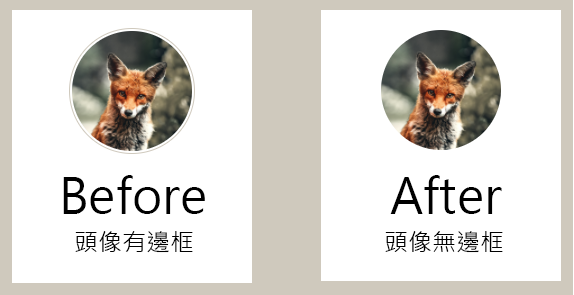
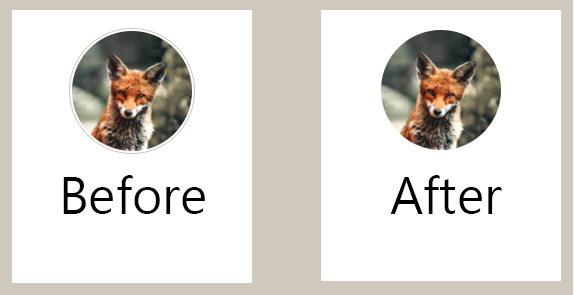
update post contents

Changed region(s): [[0.6516, 0.7627, 0.8885, 0.8542], [0.1185, 0.7627, 0.3258, 0.8542]]

diff --git a/source/_posts/next-theme-edit-note.md b/source/_posts/next-theme-edit-note.md
@@ -1,37 +1,92 @@
 ---
-title: 但是我不想拒絕修改CSS
+title: Hexo theme "NexT" CSS modification
 date: 2021-02-12 15:23:22
 categories:
 - [hexo]
-- [next (hexo theme)]
+- [NexT (hexo theme)]
 tags:
+- CSS
 ---
 
-因`_config.next.yml`無法滿足更新部落格文章字體大小的需求，故修改了`themes\next\source\css`內的檔案。
-記錄一下本次更新了哪些值。
+## Summary of this post
+Want to update the **font-size**, **font-family** (for the Chinese character) and **color** settings for my hexo blog. Done some searching and find out the contents in `base.styl` and `Pisces.styl` needs to be modified to fullfill my requirements.
+I know this may not be the best choice (since the [official docs](https://theme-next.js.org/docs/getting-started/configuration.html) suggest applying modification on `_config.next.yml` file) while at least this works...😣
+
+為了修改字體尺寸、字型（主要是中文字體）與版面顏色設定，調整了`base.styl`與`Pisces.styl`的內容。
+只需要修改英語字型的話，更改`_config.next.yml`中`# Font Settings`的段落即可。
+
+<!-- more -->
 
 
-## 本篇用語說明
-hexo部落格的根目錄位置：最初執行`hexo init <folder>`時，`<folder>`的路徑。
-舉例：如果在路徑`D:\hexo_blog`中執行`npm install`，根目錄位置就是`D:\hexo_blog`。
+## Enviroment
+```
+hexo: 5.3.0
+NexT: 7.8.0
+os: Windows_NT 10.0.18363 win32 x64
+```
 
 
-## base.styl
-檔案路徑：`<hexo部落格的根目錄位置>\themes\next\source\css\_variables\base.styl`
+## Modification in base.styl
+File path: `\themes\next\source\css\_variables`
+
+### Color system
 ```
 // Color system
 // --------------------------------------------------
 $whitesmoke   = #F5F3ED;
 $blue         = #ADBDC4;
 ```
-套用了[elegant-and-classic](https://www.schemecolor.com/elegant-and-classic.php)的色票。
+Set <span style="background-color:#F5F3ED">Isabelline  (#F5F3ED)</span> for `$whitesmoke`, and use <span style="background-color:#ADBDC4">Opal (#ADBDC4)</span> to replace the default `$blue`.
+Color scheme reference: [elegant-and-classic](https://www.schemecolor.com/elegant-and-classic.php)
 
+### Text color
 ```
 // Global text color on <body>
 $text-color                   = $black-dim;
 ```
-修改變數為`$black-dim`讓整體的文字顏色深一點。
+Change the text color from `$black-light` to `$black-dim`, lower the color value to make the contents more readable.
 
+### Font family
+#### Chinese font family setting
+```
+// Font families.
+$font-family-chinese      = 'Noto Sans TC';
+```
+沒有特別喜歡NexT預設的中文字型PingFang SC與Microsoft YaHei，決定更換成Google的Noto Sans TC。
+將`$font-family-chinese`的值改成`Noto Sans TC`後，到[Google Fonts](https://fonts.google.com/)選取要使用的字體。
+取得host URI後，將`_config.next.yml`中`host`的值設定為Google Fonts提供的URI。
+
+#### English font family setting
+English font can be easily config in `_config.next.yml`, just update the "Font Settings" part.
+```
+# ---------------------------------------------------------------
+# Font Settings
+# ---------------------------------------------------------------
+font:
+  enable: true
+  host: https://fonts.googleapis.com/css2?family=Noto+Sans+TC&family=Roboto&display=swap
+
+  # Global font settings used for all elements inside <body>.
+  global:
+    external: true
+    family: Roboto
+    size:
+```
+⚗ Anatomy:
+- Set `external: true` to load the font family from `host`.
+- Go to [Google Fonts](https://fonts.google.com/) to get the host URI for "Roboto".
+    1. Search for the font family "Roboto"
+    1. Click "+ Select this style"
+    1. Click the button "View your selected families" on the top-right side on the screen
+    1. Copy `link href`, paste as the value for "host" key in `_config.next.yml`
+    1. Here's the screenshot for reference:
+![3 steps to get the font hosting URI from Google Fonts](steps-to-get-font-host-uri.png)
+
+💡 Hint:
+In my case, I also add "Noto Sans TC" to the selected families, so the host URI becomes to `https://fonts.googleapis.com/css2?family=Noto+Sans+TC&family=Roboto&display=swap`.
+The URI includes two families "Noto Sans TC" and "Roboto".
+
+### Font size
 ```
 // Font size
 $font-size-medium         = .95em;
@@ -39,28 +94,43 @@ $font-size-large          = 1em;
 $font-size-larger         = 1.125em;
 $font-size-largest        = 1.25em;
 ```
-把字體進行整體縮小。
+Reduce the size scale for blog content and titles.
 
 
-## Pisces.styl
-檔案路徑：`<hexo部落格的根目錄位置>\themes\next\source\css\_variables\Pisces.styl`
+## Modification in Pisces.styl
+File path: `\themes\next\source\css\_variables\Pisces.styl`
+
+### Body background color
 ```
 // Settings for some of the most global styles.
 // --------------------------------------------------
 $body-bg-color                = #CFC9BD;
 ```
-套用了[elegant-and-classic](https://www.schemecolor.com/elegant-and-classic.php)的色票。
+Set the background color to <span style="background-color:#CFC9BD">Pastel Gray (#CFC9BD)</span> to provide a slightly elegent smell (😂) to this blog.
+Color scheme reference: [elegant-and-classic](https://www.schemecolor.com/elegant-and-classic.php)
 
+### Sidebar (menu) color setting
+```
+// Sidebar
+$sidebar-nav-hover-color          = $blue;
+$sidebar-highlight                = $blue;
+```
+Change the hover and highlight color of "Table of Contents" into `$blue`:
+![sidebar (menu) hover and highlight color changes to blue](sidebar-highlight-and-hover-color.png)
+
+
+### Sidebar (menu) image setting
 ```
 // Sidebar
 // --------------------------------------------------
 $site-author-image-border-width   = 0px;
-$site-author-image-border-color   = #CFC9BD;
 ```
-覺得左側欄大頭貼邊界以整體視覺上來說有些突兀（側欄、文章區塊皆無邊界線條），決定將邊界寬度設定為0px。
-前後對照如下圖：
+I think the border around the blog author image creates a little bit conflict to the whole theme style (since the `site-author-image` seems to be the only place that appears the border). Removes the border by setting the `$site-author-image-border-width` to 0px.
+Below is the before-after comprehensive:
 ![Author image with and without the border](author-image-border-adjust.png)
+覺得整體視覺上只有側欄的影像有加邊界反而不太協調，決定拿掉。
 
 
-## 參考資料
-[hexo(Next主题)修改文字大小](https://blog.csdn.net/dpdpdppp/article/details/102387532)
+## Reference
+- [hexo(Next主题)修改文字大小](https://blog.csdn.net/dpdpdppp/article/details/102387532)
+- [Hexo NexT主題將網站字體改為宋體](https://zenreal.github.io/posts/10345/)
